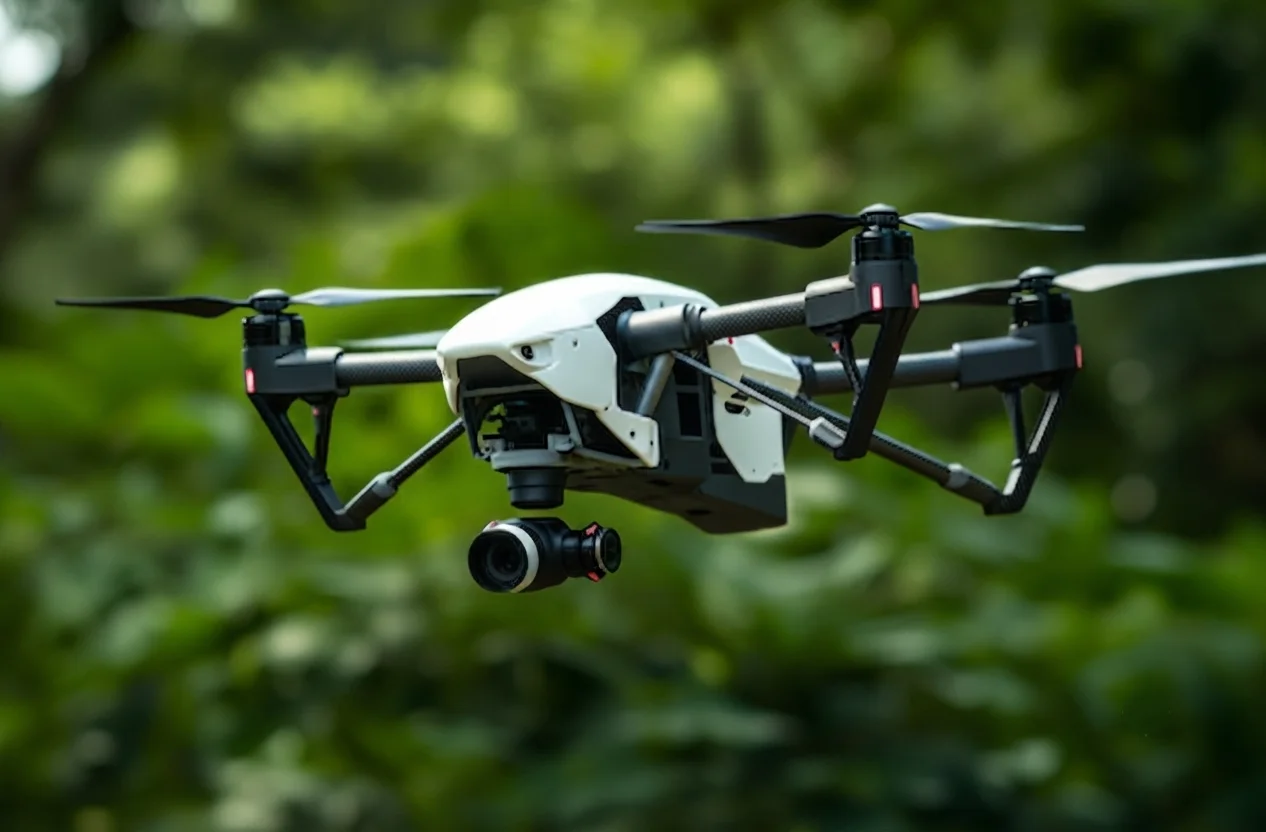
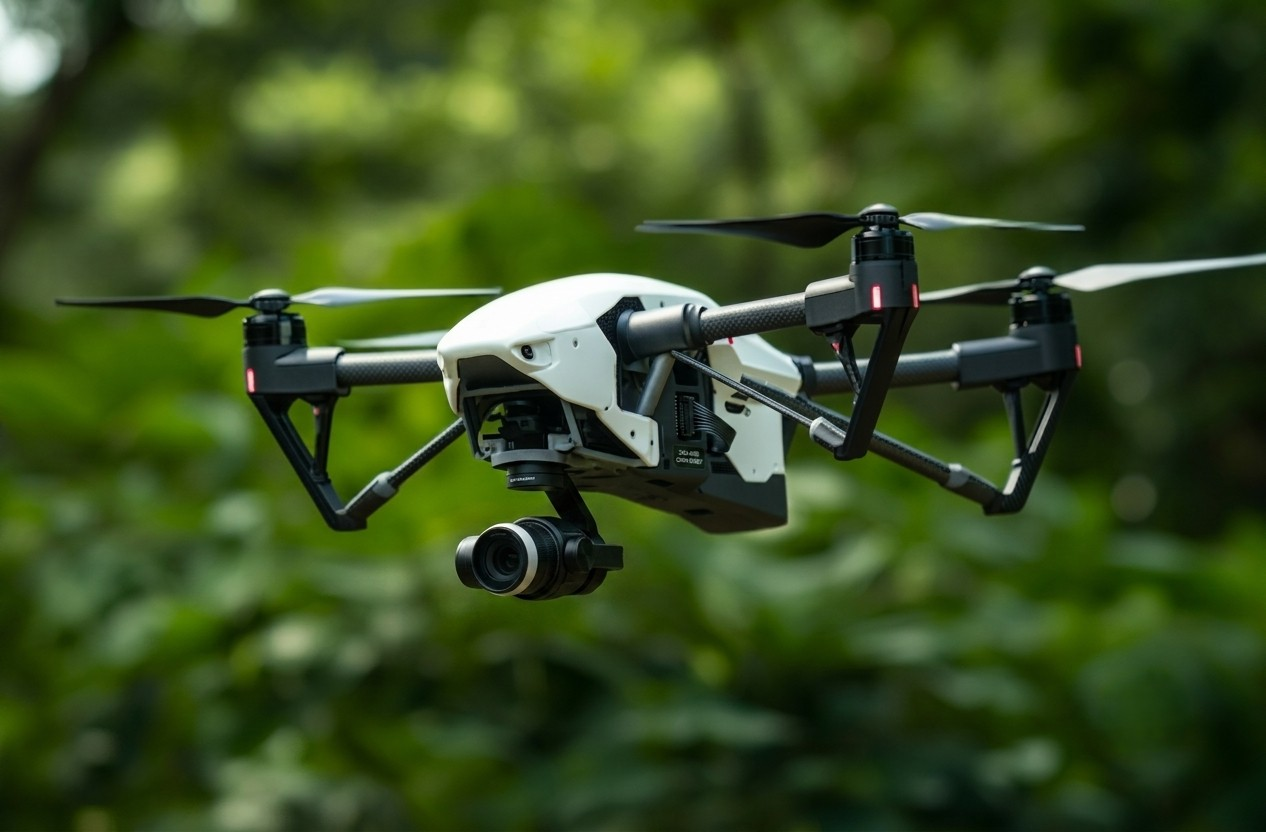
Refine contact page layout and update background assets

diff --git a/src/pages/mainpages/ContactPage.jsx b/src/pages/mainpages/ContactPage.jsx
@@ -3,7 +3,7 @@
 import { useEffect, useRef, useState } from 'react'
 import gsap from 'gsap'
 import { SITE, gmailComposeUrl } from '../../data/siteData'
-import { Breadcrumb, SectionHeader } from '../../components/ui'
+import { Breadcrumb, SectionHeader, videoMimeType } from '../../components/ui'
 import { useApi } from '../../hooks'
 import { submitContactEnquiry, submitQuestion, getPublishedQuestions } from '../../lib/api/contacts'
 import { logBusinessEvent } from '../../lib/api/analytics'
@@ -200,6 +200,12 @@ export default function ContactPage() {
   const { loading, error, run: submit } = useApi(submitContactEnquiry)
   const [submitted, setSubmitted] = useState(false)
 
+  // Same convention as PageBanner: fall back to a plain poster image when
+  // the visitor prefers reduced motion, instead of autoplaying video.
+  const prefersReducedMotion =
+    typeof window !== 'undefined' &&
+    window.matchMedia('(prefers-reduced-motion: reduce)').matches
+
   const handleChange = (e) => {
     setForm((prev) => ({ ...prev, [e.target.name]: e.target.value }))
   }
@@ -389,17 +395,33 @@ export default function ContactPage() {
             className="relative w-full h-full flex items-center overflow-hidden"
           >
 
-            {/* Animated Background */}
-            <div
-              ref={bgRef}
-              className="absolute inset-0"
-              style={{
-                backgroundImage: "url('/images/Green.webp')",
-                backgroundSize: 'cover',
-                backgroundPosition: 'center center',
-                backgroundRepeat: 'no-repeat',
-              }}
-            />
+            {/* Animated Background — same video convention as PageBanner:
+                autoplaying webm with the original image kept as poster and
+                as the reduced-motion fallback. */}
+            <div ref={bgRef} className="absolute inset-0 overflow-hidden">
+              {prefersReducedMotion ? (
+                <img
+                  src="/images/Green.webp"
+                  alt=""
+                  aria-hidden="true"
+                  fetchPriority="high"
+                  className="absolute inset-0 h-full w-full object-cover"
+                />
+              ) : (
+                <video
+                  className="absolute inset-0 h-full w-full object-cover"
+                  autoPlay
+                  muted
+                  loop
+                  playsInline
+                  preload="auto"
+                  poster="/images/Green.webp"
+                  aria-hidden="true"
+                >
+                  <source src="/videos/Green.webm" type={videoMimeType('/videos/Green.webm')} />
+                </video>
+              )}
+            </div>
 
             {/* Cyan Glow */}
             <div className="absolute top-0 left-1/2 -translate-x-1/2 w-full max-w-[600px] h-[1px] bg-gradient-to-r from-transparent via-cyan to-transparent opacity-30" />

diff --git a/src/components/ui/index.jsx b/src/components/ui/index.jsx
@@ -37,7 +37,7 @@ export function Breadcrumb({ crumbs = [] }) {
 // mismatch: browsers use the `type` attribute to decide whether to even
 // fetch a <source> at all, so this could cause the browser to skip or
 // reject a source that would otherwise have played fine.
-function videoMimeType(src) {
+export function videoMimeType(src) {
   if (!src) return undefined
   const ext = src.split('.').pop().toLowerCase()
   return { webm: 'video/webm', mp4: 'video/mp4', mov: 'video/quicktime' }[ext] || undefined